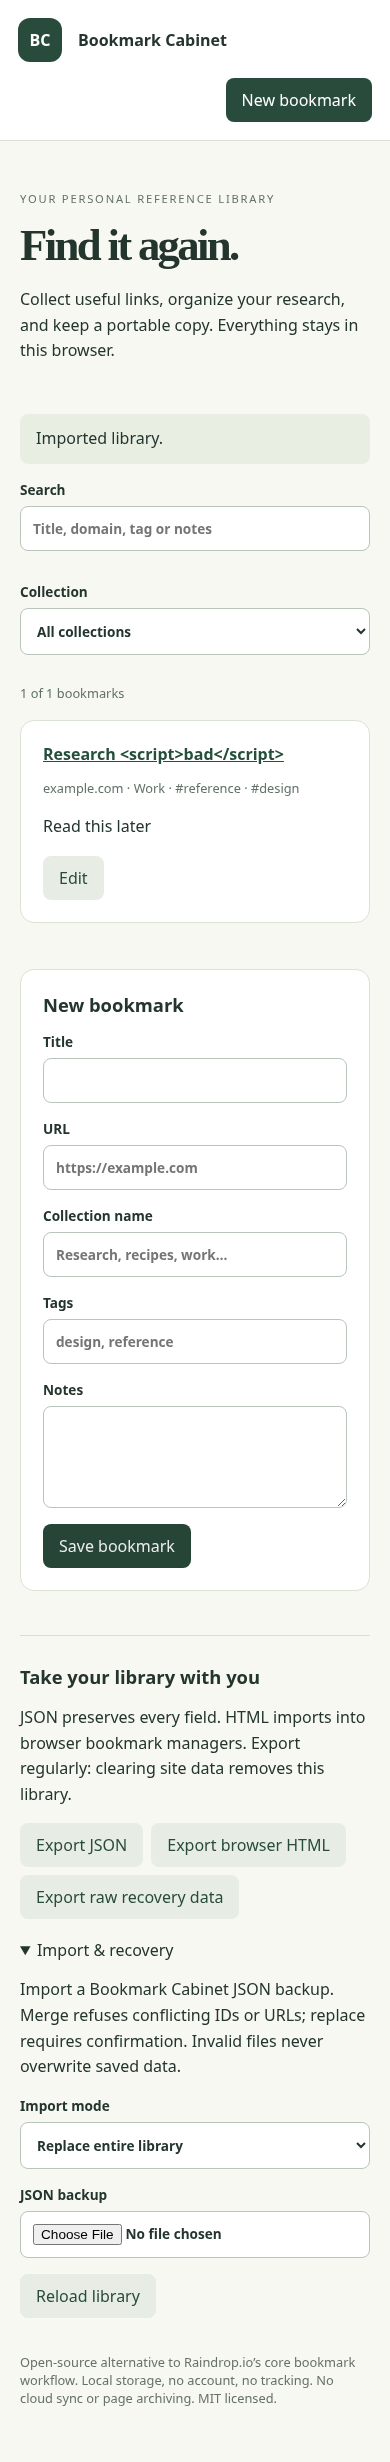
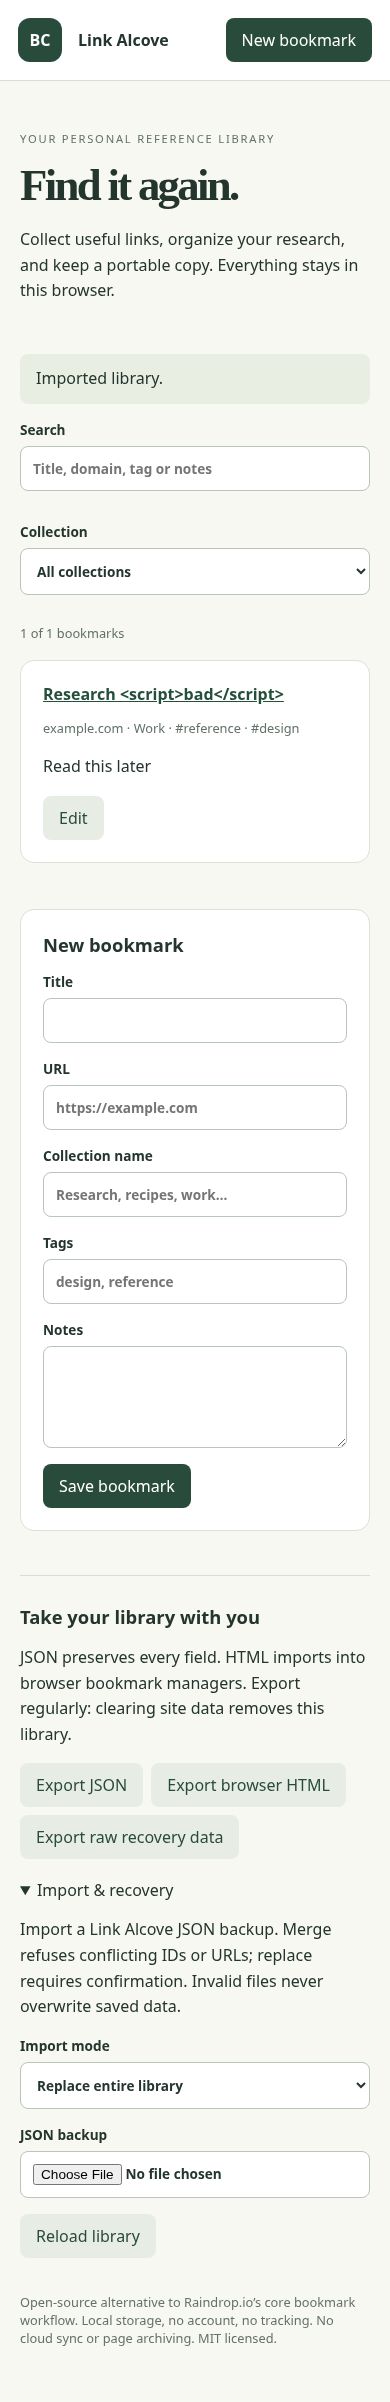
Rename product to Link Alcove and refresh visual identity (#1)

diff --git a/index.html b/index.html
@@ -1,7 +1,7 @@
-<!doctype html><html lang="en"><head><meta charset="utf-8"><meta name="viewport" content="width=device-width,initial-scale=1"><meta name="description" content="Open-source alternative to Raindrop.io for local bookmarks, collections, tags, search and portable exports. MIT licensed."><title>Bookmark Cabinet — Your links, in order</title><link rel="stylesheet" href="style.css"></head><body>
-<header><span class="mark">BC</span><div><strong>Bookmark Cabinet</strong><p>A quiet home for links worth keeping.</p></div><button id="new">New bookmark</button></header>
+<!doctype html><html lang="en"><head><meta charset="utf-8"><meta name="viewport" content="width=device-width,initial-scale=1"><meta name="description" content="Open-source alternative to Raindrop.io for local bookmarks, collections, tags, search and portable exports. MIT licensed."><title>Link Alcove — Your links, in order</title><link rel="stylesheet" href="style.css"></head><body>
+<header><span class="mark">LA</span><div><strong>Link Alcove</strong><p>A quiet home for links worth keeping.</p></div><button id="new">New bookmark</button></header>
 <main><section class="intro"><p class="eyebrow">YOUR PERSONAL REFERENCE LIBRARY</p><h1>Find it again.</h1><p>Collect useful links, organize your research, and keep a portable copy. Everything stays in this browser.</p></section>
 <p id="status" role="status" aria-live="polite"></p><div class="workspace"><section aria-label="Library"><div class="filters"><label>Search<input id="search" type="search" placeholder="Title, domain, tag or notes"></label><label>Collection<select id="filter"><option value="">All collections</option></select></label></div><p id="count"></p><ul id="list"></ul><p id="empty">No saved links yet. Add your first bookmark to start a collection.</p></section>
 <aside><form id="editor"><h2 id="editor-title">New bookmark</h2><input id="id" type="hidden"><label>Title<input id="title" required maxlength="200"></label><label>URL<input id="url" type="url" required maxlength="4000" placeholder="https://example.com"></label><label>Collection name<input id="collection" maxlength="100" list="collections" placeholder="Research, recipes, work…"></label><datalist id="collections"></datalist><label>Tags<input id="tags" placeholder="design, reference" maxlength="1829"></label><label>Notes<textarea id="notes" rows="4" maxlength="4000"></textarea></label><div class="actions"><button type="submit">Save bookmark</button><button id="delete" type="button" class="quiet" hidden>Delete</button></div></form></aside></div>
-<section class="portability"><h2>Take your library with you</h2><p>JSON preserves every field. HTML imports into browser bookmark managers. Export regularly: clearing site data removes this library.</p><div class="actions"><button id="backup" class="quiet">Export JSON</button><button id="html" class="quiet">Export browser HTML</button><button id="raw" class="quiet">Export raw recovery data</button></div><details><summary>Import & recovery</summary><p>Import a Bookmark Cabinet JSON backup. Merge refuses conflicting IDs or URLs; replace requires confirmation. Invalid files never overwrite saved data.</p><label>Import mode<select id="mode"><option value="merge">Merge</option><option value="replace">Replace entire library</option></select></label><label>JSON backup<input id="file" type="file" accept=".json,application/json"></label><button id="reload" class="quiet">Reload library</button></details></section>
+<section class="portability"><h2>Take your library with you</h2><p>JSON preserves every field. HTML imports into browser bookmark managers. Export regularly: clearing site data removes this library.</p><div class="actions"><button id="backup" class="quiet">Export JSON</button><button id="html" class="quiet">Export browser HTML</button><button id="raw" class="quiet">Export raw recovery data</button></div><details><summary>Import & recovery</summary><p>Import a Link Alcove JSON backup. Merge refuses conflicting IDs or URLs; replace requires confirmation. Invalid files never overwrite saved data.</p><label>Import mode<select id="mode"><option value="merge">Merge</option><option value="replace">Replace entire library</option></select></label><label>JSON backup<input id="file" type="file" accept=".json,application/json"></label><button id="reload" class="quiet">Reload library</button></details></section>
 <footer>Open-source alternative to Raindrop.io’s core bookmark workflow. Local storage, no account, no tracking. No cloud sync or page archiving. MIT licensed.</footer></main><script type="module" src="app.js"></script></body></html>

diff --git a/README.md b/README.md
@@ -1,6 +1,6 @@
 <div align="center">
 
-![Bookmark Cabinet — Find it again.](docs/assets/banner.svg)
+![Link Alcove — Find it again.](docs/assets/banner.svg)
 
 ### Open-source alternative to Raindrop.io for personal bookmarks and research collections
 
@@ -14,7 +14,7 @@ A quiet home for links worth keeping.
 
 > Local candidate. No cloud sync or page archiving; native browser HTML import acceptance remains pending.
 
-![Bookmark Cabinet application workflow](artifacts/demo.png)
+![Link Alcove application workflow](artifacts/demo.png)
 
 *Actual application screenshot with the included public-reference collection.*
 
@@ -50,7 +50,7 @@ To try a non-private collection, import `examples/research.json` under **Import 
 
 [Raindrop.io](https://raindrop.io/) advertises collections, tags and filters, full-text search, archives and collaboration (vendor page reviewed November 15, 2026 IST). This app implements a narrower personal workflow:
 
-| Workflow | Bookmark Cabinet |
+| Workflow | Link Alcove |
 |---|---|
 | Save, edit and delete links | Yes, manual URL/title entry |
 | Collections, tags, notes | Yes, flat collection names |

diff --git a/IDENTITY.md b/IDENTITY.md
@@ -1,0 +1,7 @@
+# Product identity migration
+
+Product name: **Link Alcove**. Intended repository name: `link-alcove`.
+
+The GitHub integration cannot rename repositories (HTTP 403). Until the owner saves the new name at https://github.com/anshuman-pandey/bookmark-cabinet/settings, the current repository URL and source directory remain valid. Do not create a replacement repository: rename the existing one to preserve issues, stars and history.
+
+Existing storage keys, database paths, Docker volume names and backup schemas remain unchanged. This avoids losing saved user data during a branding-only update. After renaming, update the Git remote and documentation URLs; GitHub normally redirects the old repository URL. Existing published releases retain their original names until explicitly updated.
